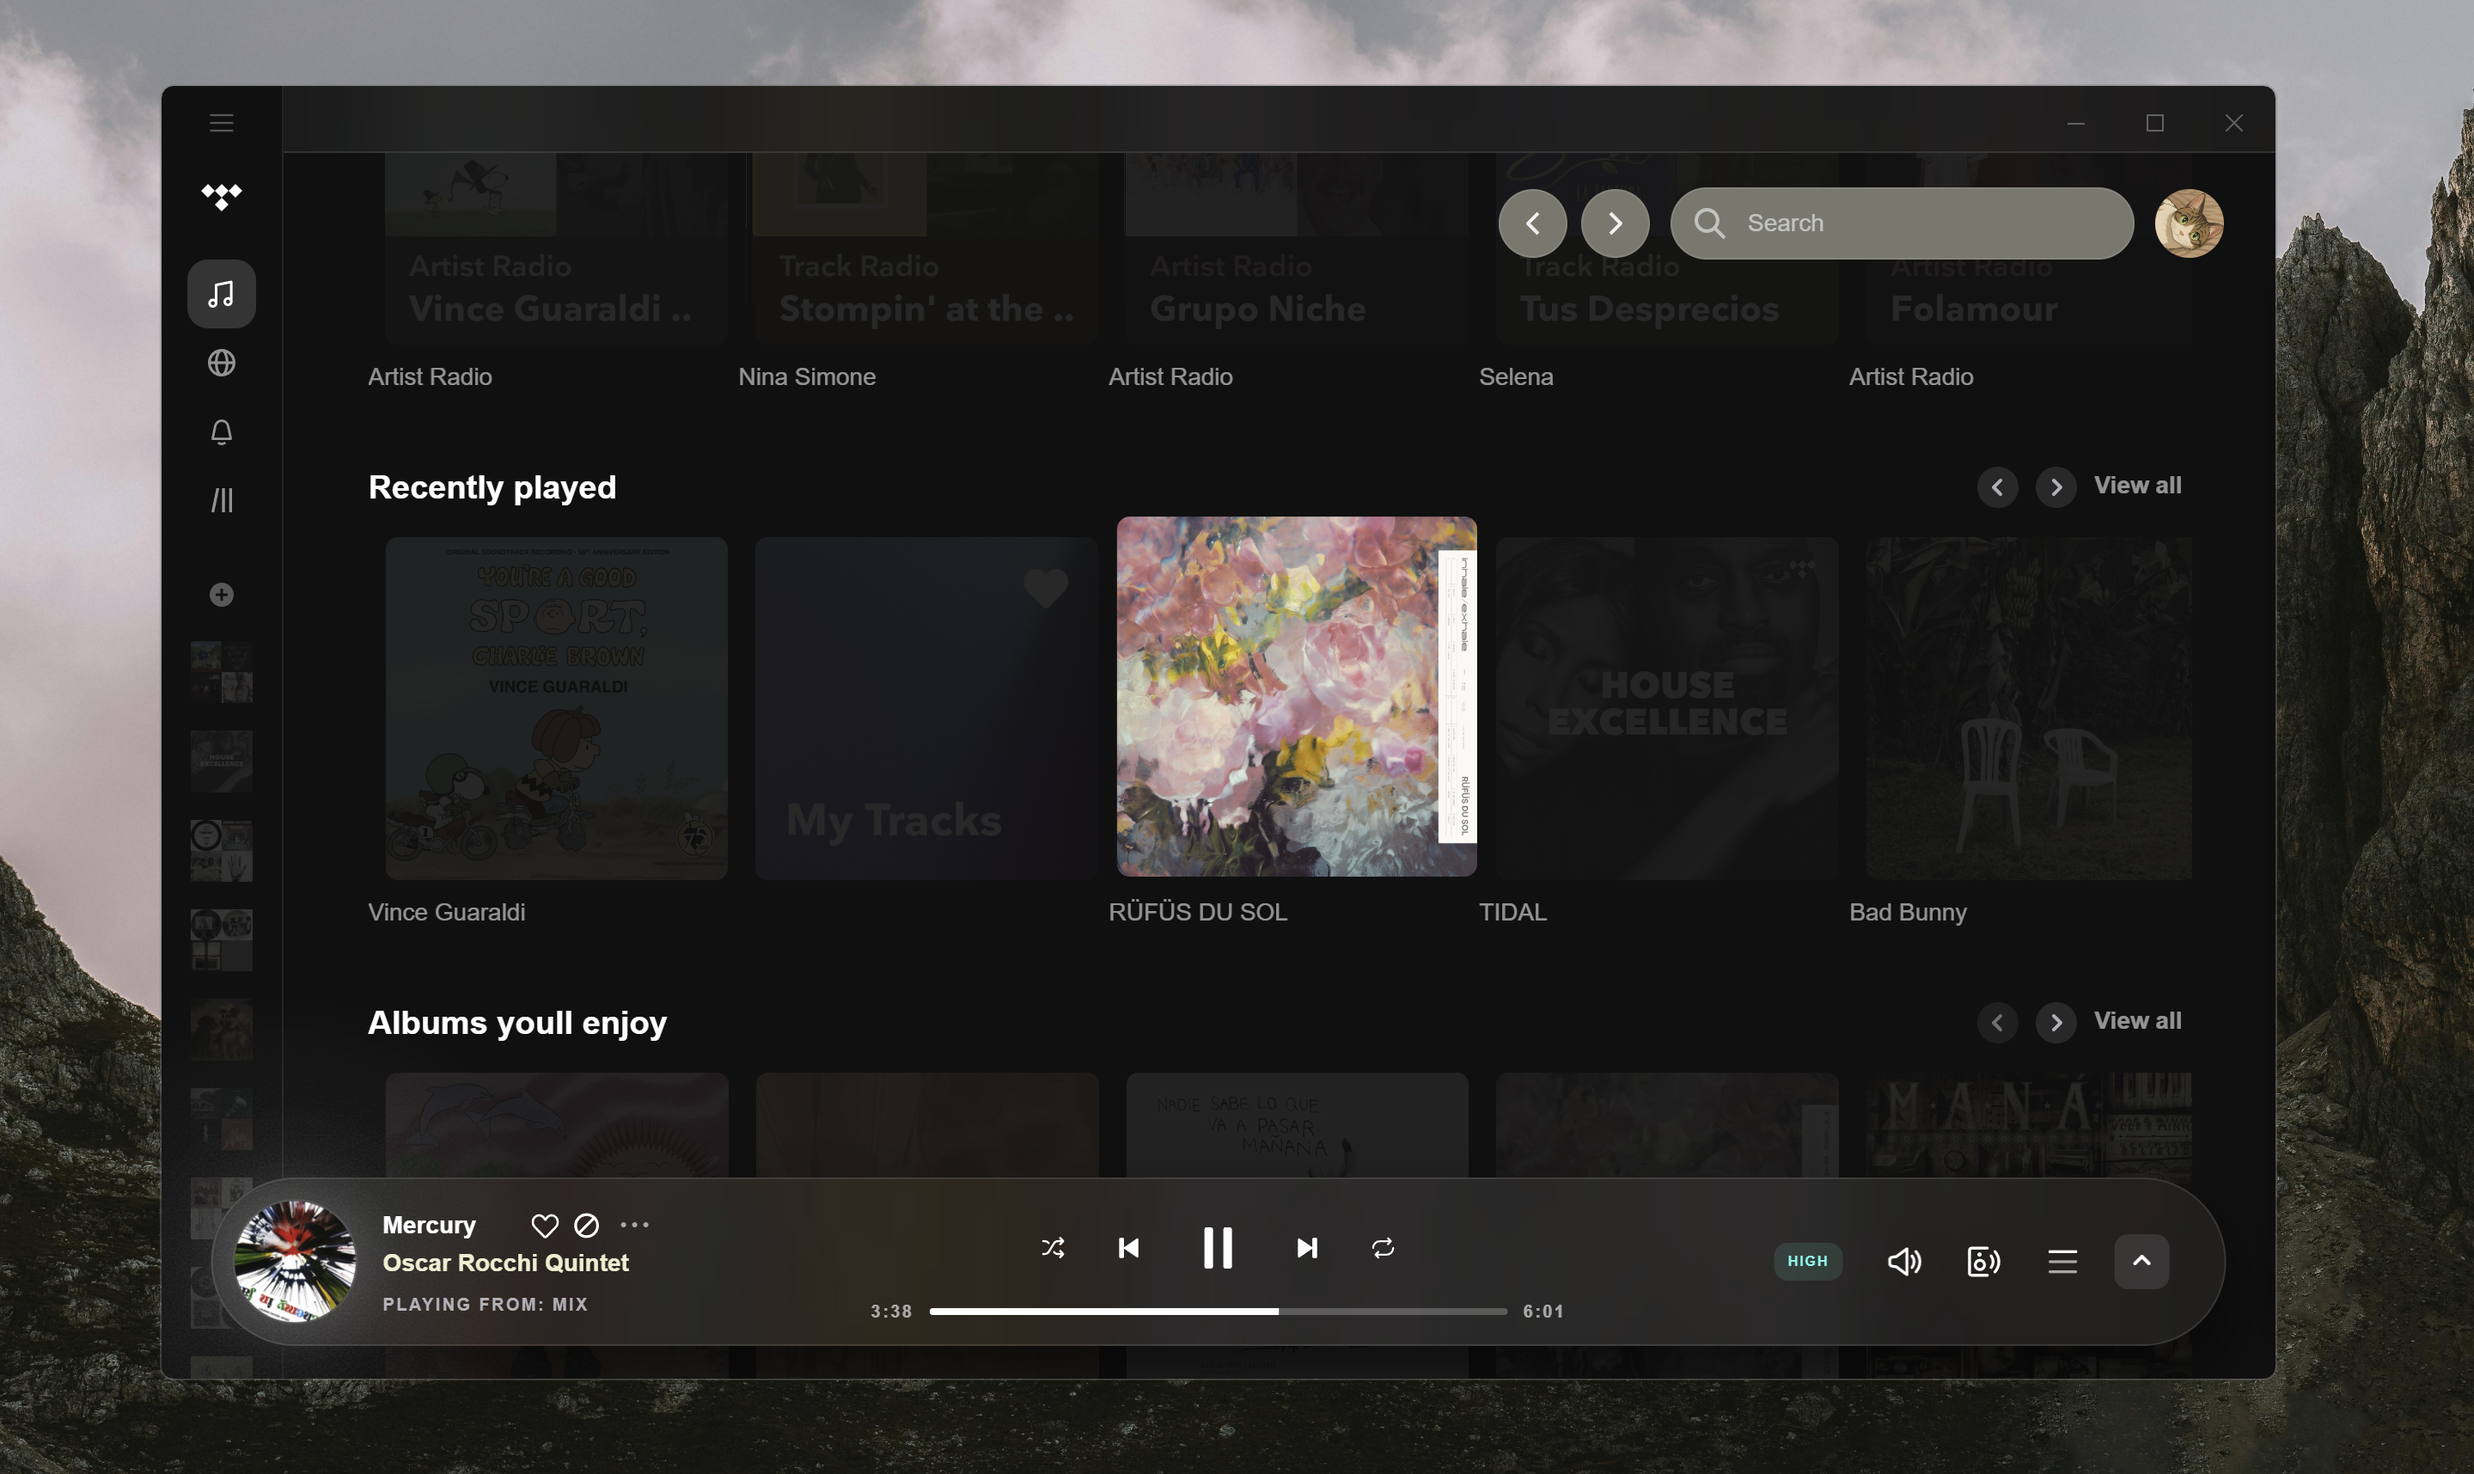
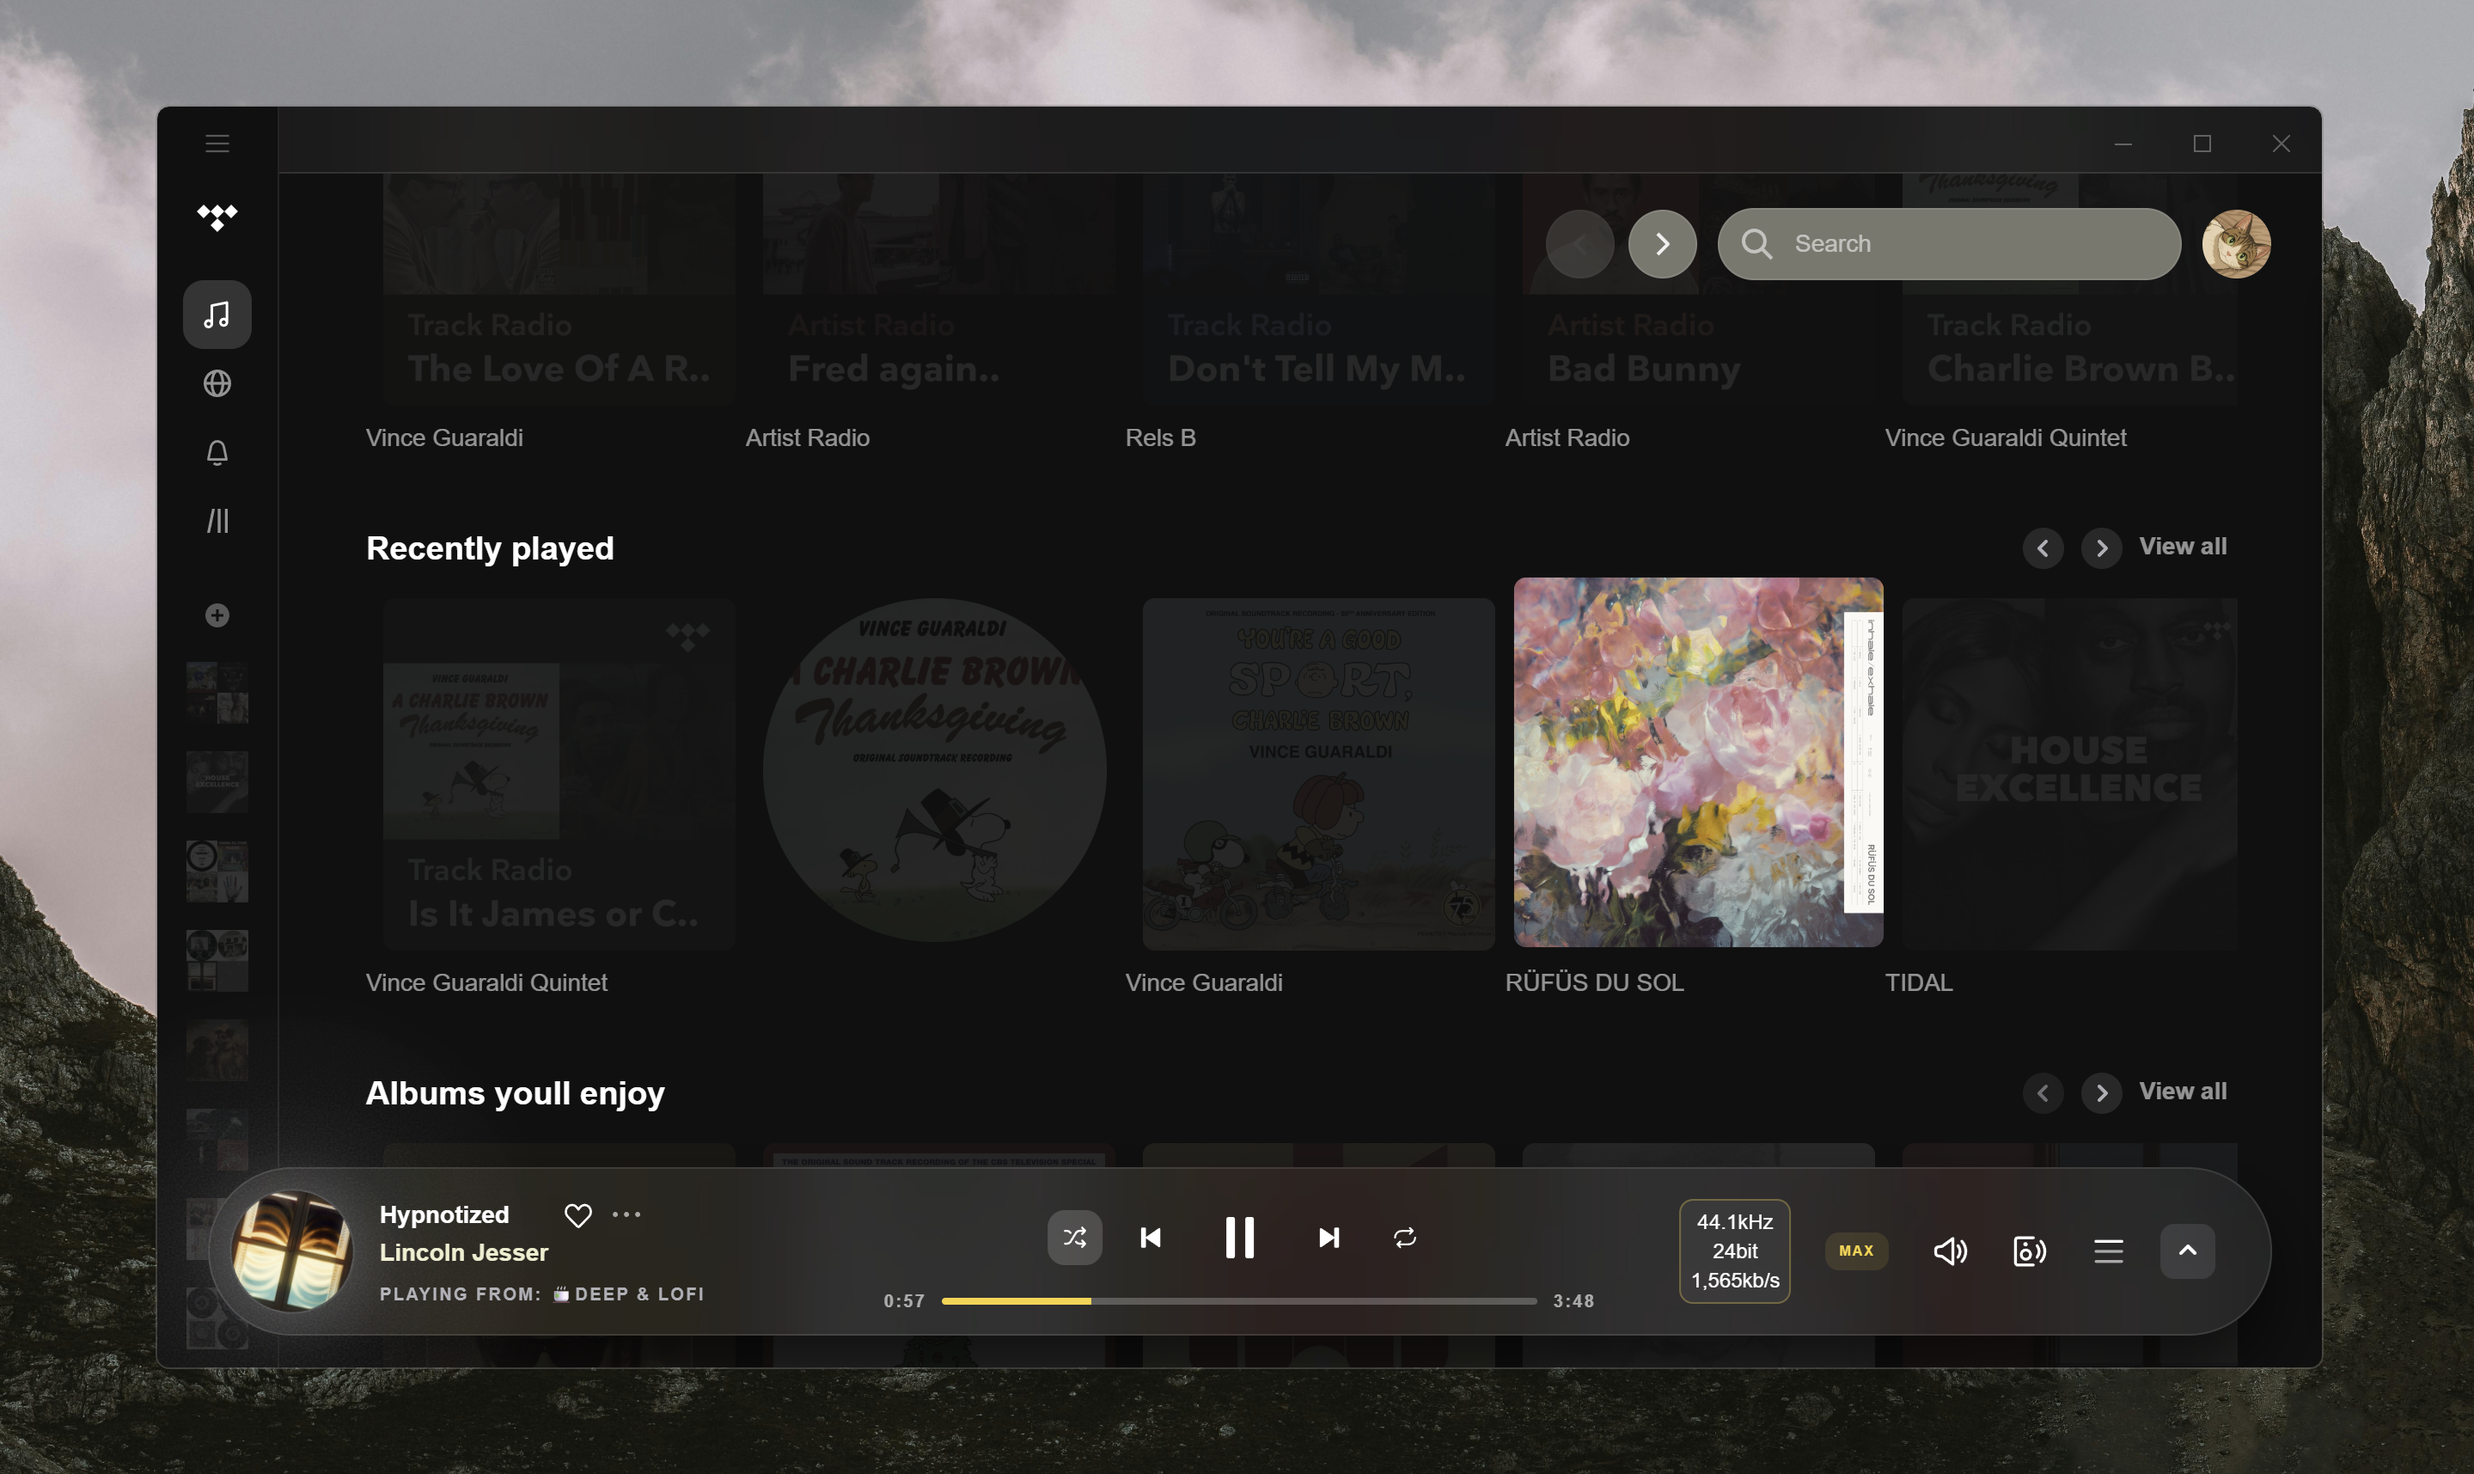
new tags

diff --git a/Lunallena.css b/Lunallena.css
@@ -6,6 +6,7 @@
 /* =========================================================
    VARIABLES
    ========================================================= */
+
 :root {
     /* Backgrounds */
     --bg-transparent: transparent;
@@ -25,6 +26,7 @@
     --blur-glass: blur(30px) saturate(2);
     --blur-now-playing: blur(50px) saturate(2);
     --blur-play-queue: blur(25px) saturate(2);
+    --blur-metadata: blur(100px) saturate (5);
     
     /* Borders */
     --border-glass: 1px solid rgba(255, 255, 255, 0.1);
@@ -33,6 +35,20 @@
     --moonlight: 
     0px 0px 300px rgba(255, 255, 255, 0.1), 
     0px 0px 40px rgba(255, 255, 255, 0.3) !important;
+}
+
+/* =========================================================
+   METADATA TAGS
+   ========================================================= */
+
+[class="format-info"] {
+    font-size: 12px;
+    width: 55px;
+    background: var(--bg-glass-light);
+}
+
+[data-test="footer-player"] {
+    grid-auto-columns: minmax(auto, calc(32vw - 55px));
 }
 
 /* =========================================================
